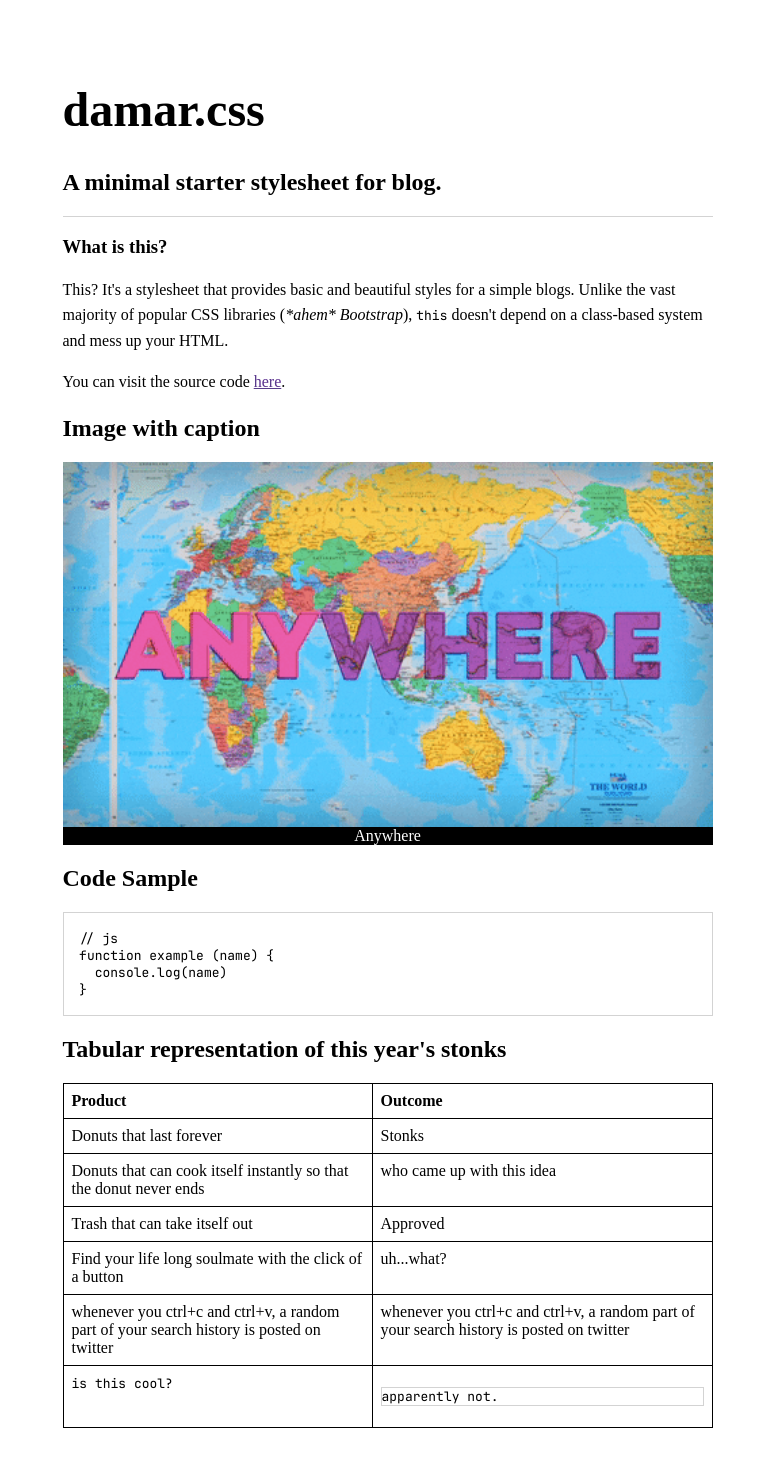
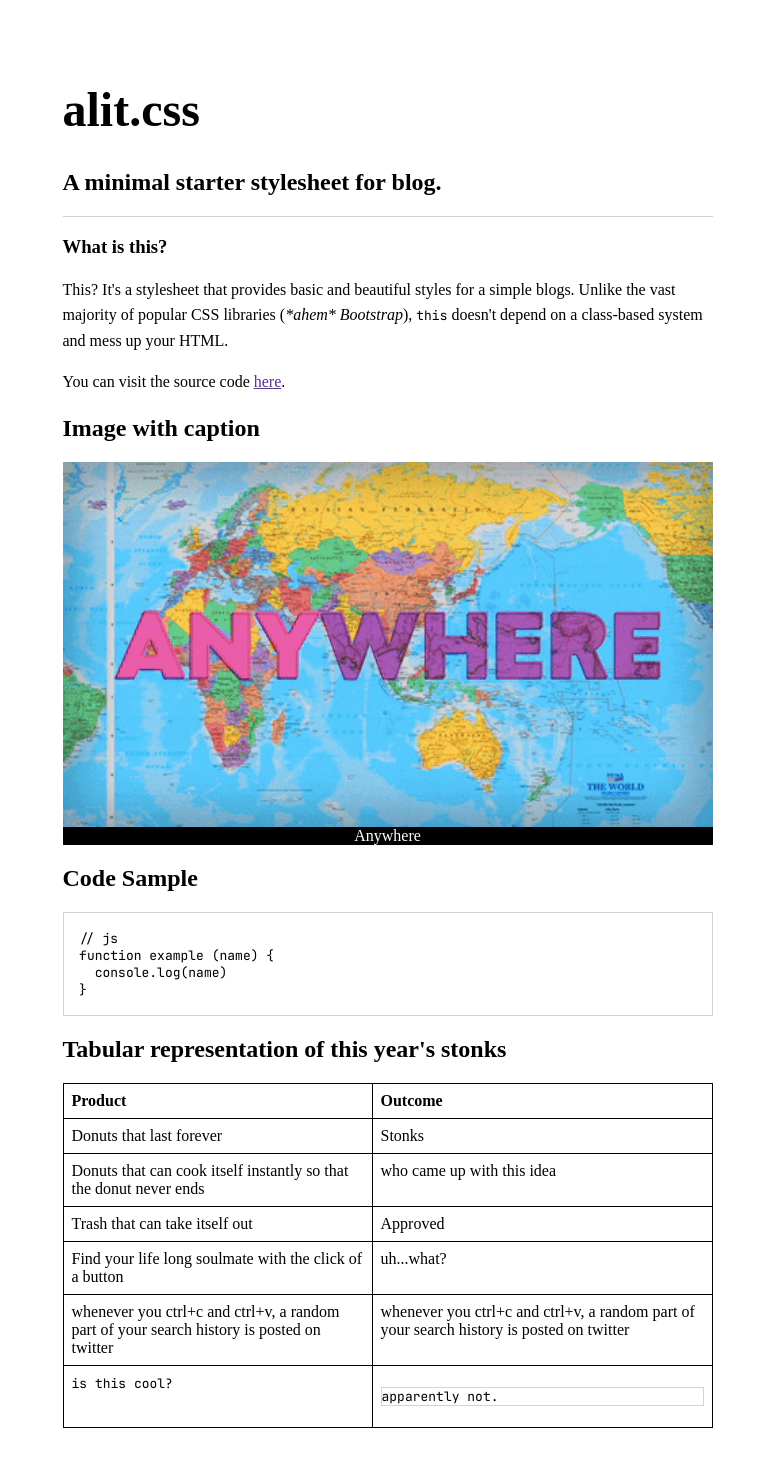
rename to alit.css

Changed region(s): [[0.0605, 0.3112, 0.9382, 0.5602], [0.0908, 0.0622, 0.3632, 0.0934], [0.4237, 0.5291, 0.4539, 0.5602]]

diff --git a/index.html b/index.html
@@ -4,13 +4,13 @@
 <head>
   <meta charset="utf-8" />
   <meta name="viewport" content="width=device-width, initial-scale=1" />
-  <title>damar.css</title>
+  <title>alit.css</title>
   <meta name="description" content="A stylesheet that provides basic and beautiful styles for a simple webpage." />
   <link rel="stylesheet" href="/style.css" />
 </head>
 
 <body>
-  <h1>damar.css</h1>
+  <h1>alit.css</h1>
   <h2>A minimal starter stylesheet for blog.</h2>
   <hr />
   <div>

diff --git a/style.css b/style.css
@@ -1,4 +1,4 @@
-/* damar.css */
+/* alit.css */
 /* Indra Damar Jati <indradamarjati21@gmail.com> */
 /* MIT License - 2023 */
 

diff --git a/README.md b/README.md
@@ -1,7 +1,9 @@
-# damar.css
+# alit.css
+
+> *alit* in Javanese means *mini* or *small*.
 
 A minimal starter stylesheet for blog, based from [don8t.css](https://github.com/khalby786/don8t).
 
 ## Screenshot
 
-![damar.css](example.png)
+![alit.css](example.png)
